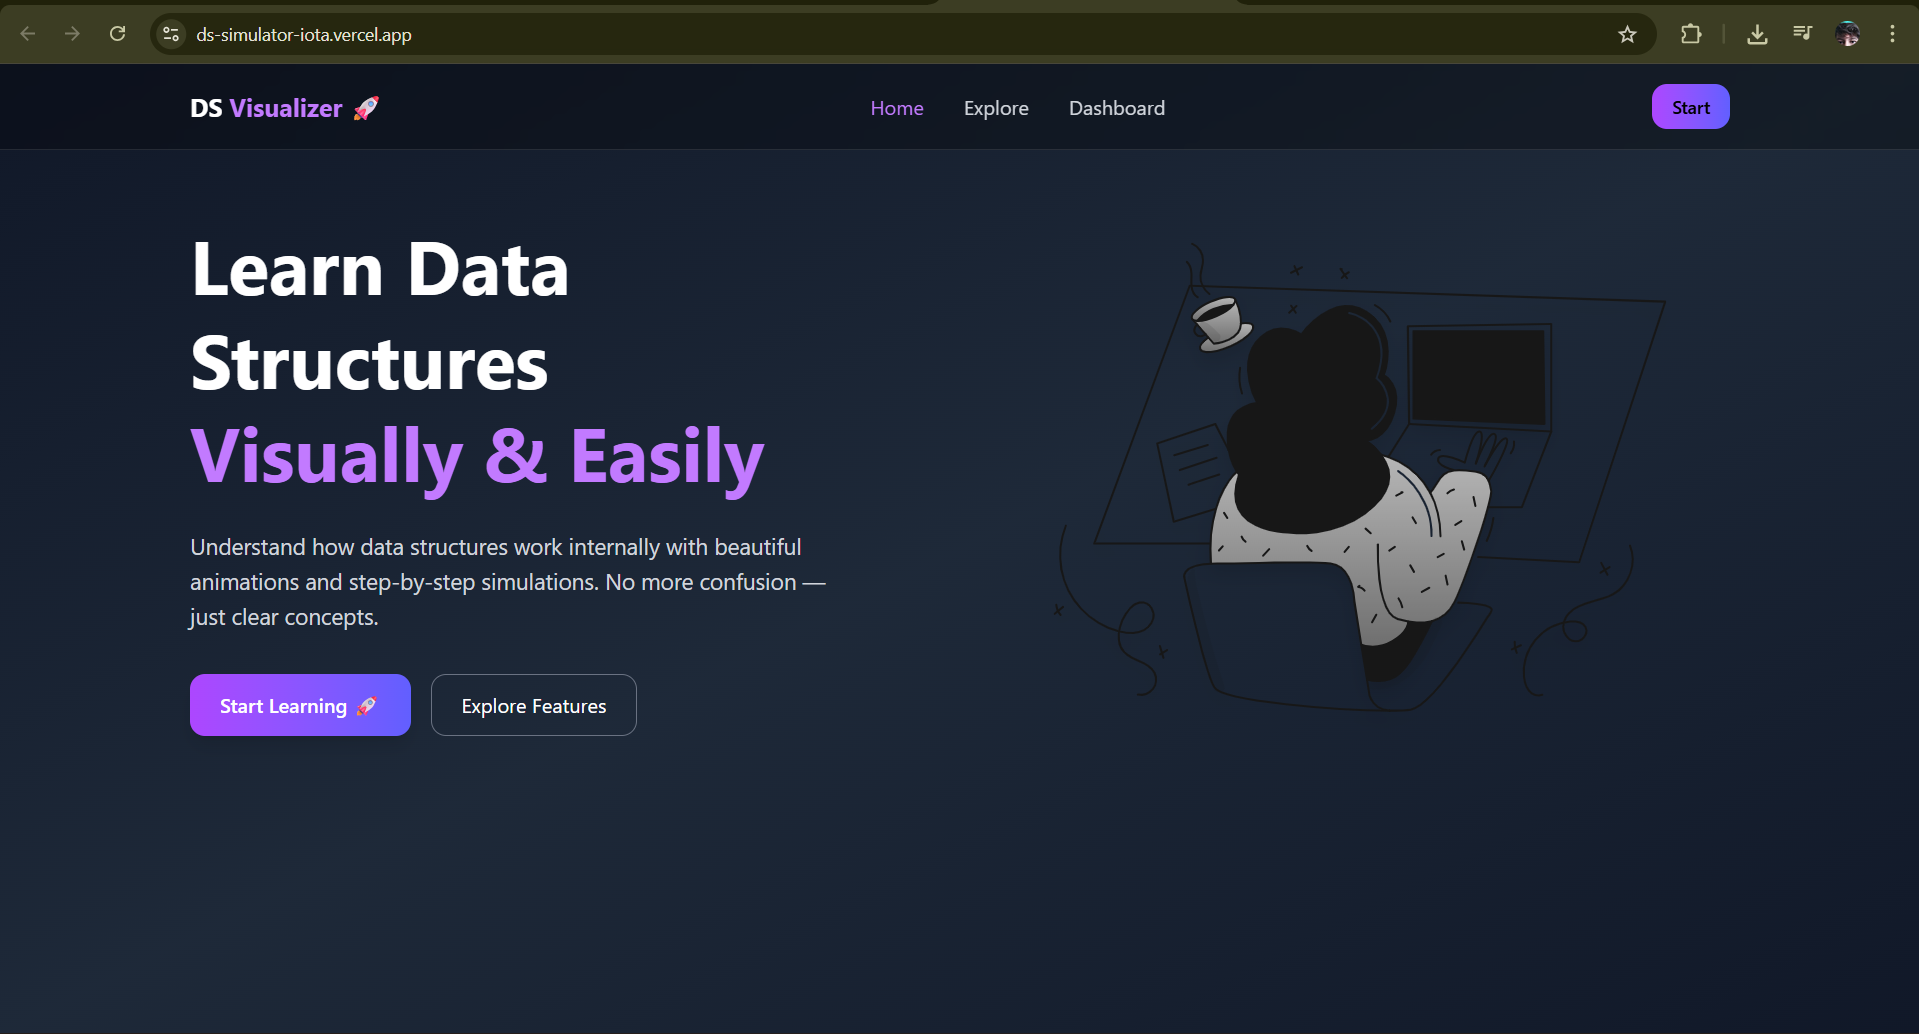
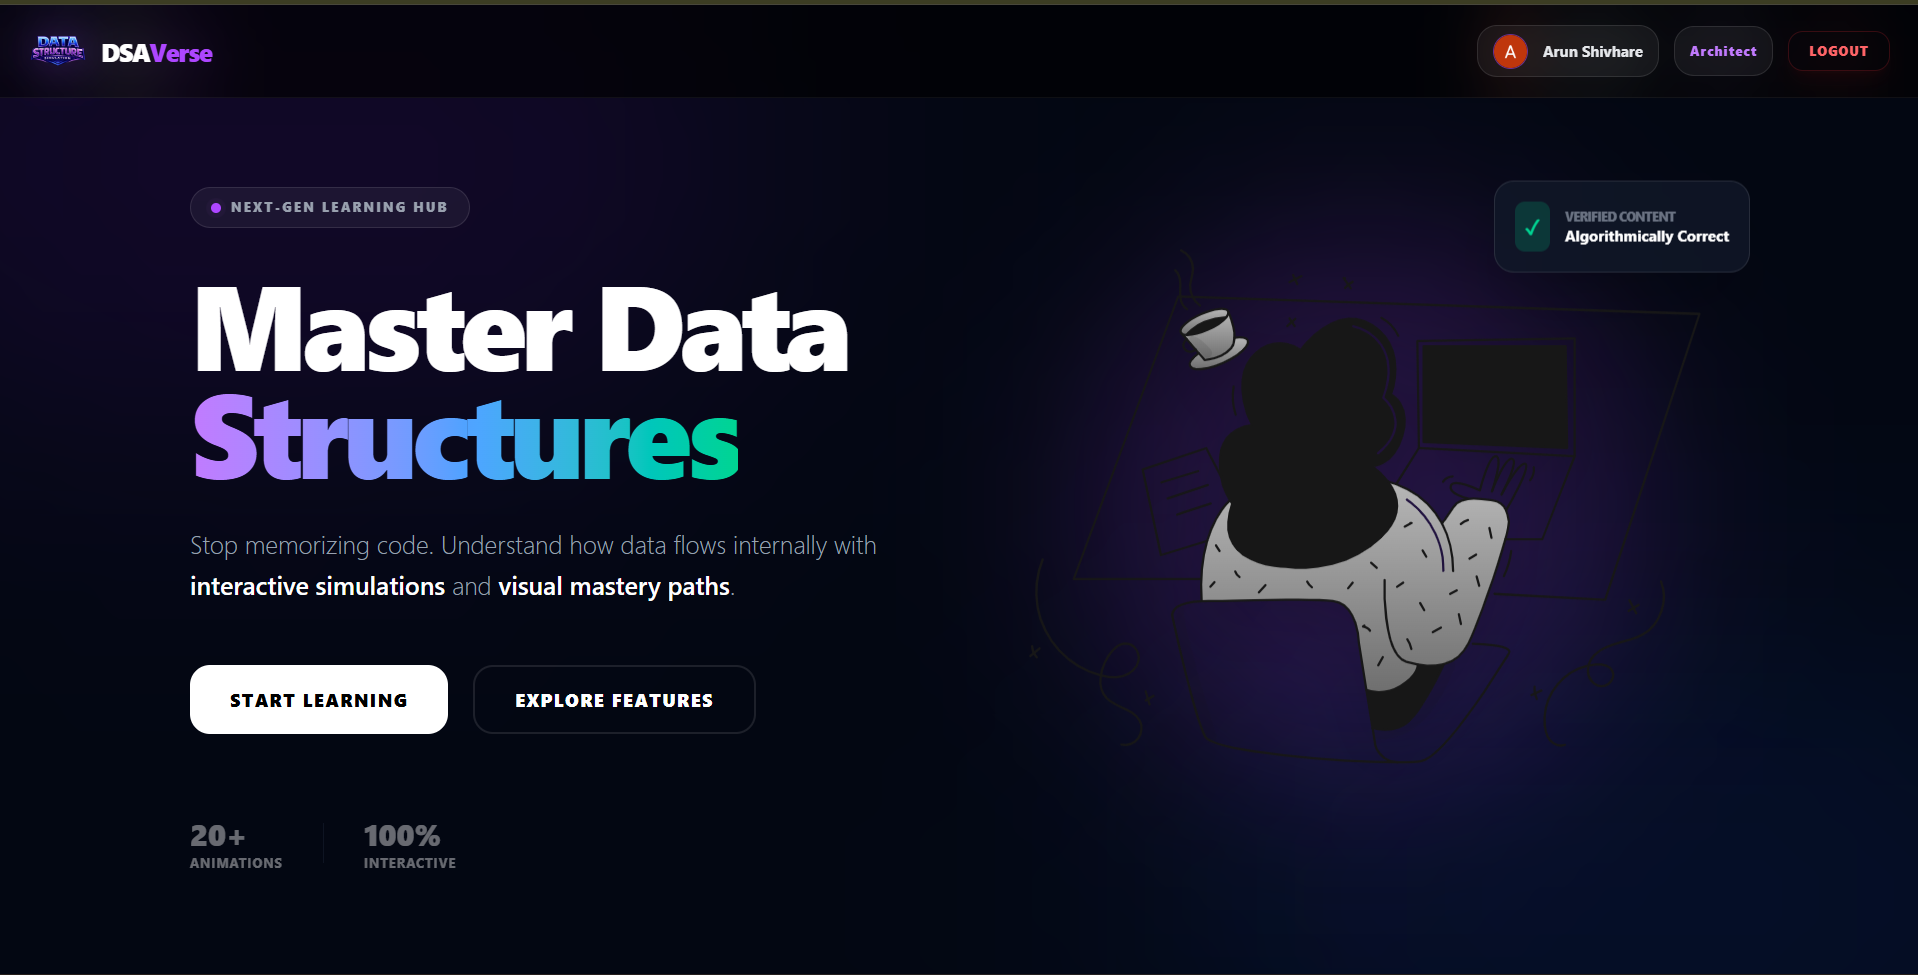
update project

diff --git a/src/components/Projects.jsx b/src/components/Projects.jsx
@@ -123,6 +123,48 @@ const Projects = () => {
       live: "https://chai-and-fund.vercel.app/",
     },
     {
+      title: "Zenith",
+      description: "Smart Daily Execution System & Productivity Dashboard",
+      tech: [
+        "Next.js",
+        "React",
+        "Supabase",
+        "PostgreSQL",
+        "Tailwind CSS",
+        "Vercel",
+      ],
+      image: "/projects/zenith.png",
+
+      details: {
+        overview:
+          "A smart daily execution system designed to optimize personal productivity through structured time-blocking, habit building, and deep focus analytics. The platform features a dynamic digital dashboard that helps users schedule their day, track consistency, and analyze execution metrics.",
+
+        features: [
+          "Daily task management with integrated time-blocking slots",
+          "Habit tracker with streak monitoring and consistency metrics",
+          "Dedicated focus mode with an immersive UI to minimize distractions",
+          "Digital dashboard providing real-time overview of daily schedules",
+          "Daily analysis page with automated productivity scoring",
+          "Secure user authentication for private data protection",
+          "Row Level Security (RLS) ensuring strict user data isolation",
+          "Data visualization charts for historic performance trends",
+          "Responsive layout optimized for both mobile and desktop execution",
+        ],
+
+        howItWorks: [
+          "User logs in to access their personalized digital dashboard",
+          "User schedules their day by mapping tasks directly into built-in time slots",
+          "User toggles into focus mode to execute tasks without peripheral noise",
+          "User logs daily habit completions to update continuous streaks",
+          "System logs execution data to generate end-of-day productivity metrics",
+          "User reviews the analysis page to identify time drains and optimize habits",
+        ],
+      },
+
+      github: "https://github.com/ArunShivhare/Zenith-A-Smart-Daily-Execution-System.git",
+      live: "https://zenith-a-smart-daily-execution-syst.vercel.app/dashboard",
+    },
+    {
       title: "Golf Platform",
       description: "Full-Stack Subscription-Based Gaming & Charity Platform",
       tech: [
